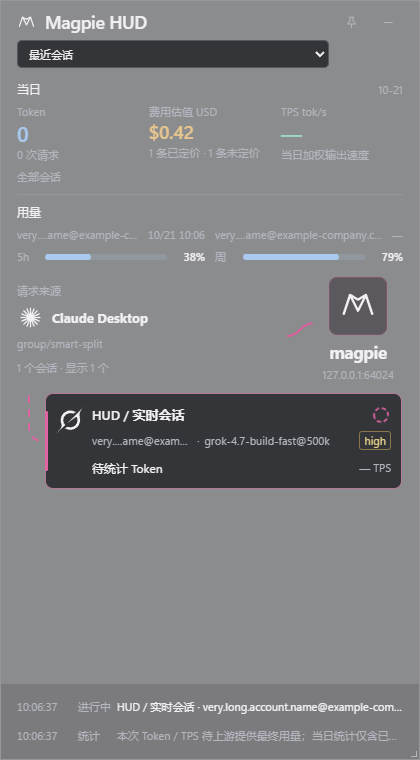
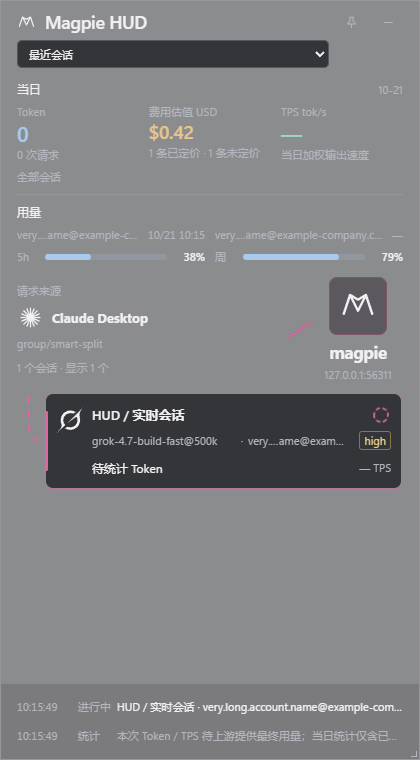
feat: 调整卡片模型顺序与额度刷新时机
会话卡片底部按模型、账号、强度排列，窄窗分别截断。
额度启动读取后每分钟刷新，完成请求后合并两秒内事件补刷缓存。
不为未匹配账号和正在选路的占位账号显示空额度进度条。

Changed region(s): [[0.2167, 0.575, 0.8048, 0.6053], [0.7738, 0.4842, 0.9286, 0.5145]]

diff --git a/ui/hud.css b/ui/hud.css
@@ -7,7 +7,7 @@
 .content{display:grid;grid-template-columns:186px minmax(0,1fr);min-height:0;padding:8px 20px 14px;gap:20px}.sidebar{min-width:0;min-height:0;display:flex;flex-direction:column;gap:14px;border-right:1px solid var(--edge);padding-right:16px;overflow-x:hidden;overflow-y:auto;scrollbar-width:none}.sidebar::-webkit-scrollbar,.quota-list::-webkit-scrollbar{display:none}.daily{min-width:0;flex-shrink:0}.daily-heading,.quota-heading{display:flex;align-items:baseline;justify-content:space-between;gap:6px;margin-bottom:7px}.daily-heading strong,.quota-heading h2{font-size:12px;font-weight:500;margin:0}.daily-heading time,.quota-heading>span{font-size:11px;color:var(--muted)}dl{margin:0;display:grid;gap:10px}.metric{min-width:0}.metric dt{color:var(--muted);font-size:11px}.metric dt span{font-size:11px}#cost-status{color:var(--warning)}.metric dd{margin:2px 0;font-size:24px;line-height:1.15;font-weight:600;letter-spacing:-.5px;font-variant-numeric:tabular-nums}.metric small{font-size:11px;color:var(--muted);display:block;line-height:1.4;overflow:hidden;text-overflow:ellipsis;white-space:nowrap}.metric:nth-child(2) dd{font-size:21px}#daily-tokens{color:var(--stat-tokens)}#daily-speed{color:var(--stat-speed)}#daily-cost{color:var(--stat-cost)}.stats-scope{display:block;color:var(--muted);font-size:11px;overflow:hidden;text-overflow:ellipsis;white-space:nowrap;padding-top:8px}.quota{border-top:1px solid var(--edge);padding-top:12px;min-width:0}.quota-list{display:flex;flex-direction:column;gap:12px;min-width:0}.quota-item{min-width:0;width:100%;display:grid;grid-template-columns:minmax(0,1fr);gap:6px}.quota-meta{display:grid;grid-template-columns:minmax(0,1fr) auto;align-items:baseline;min-width:0;gap:6px;font-size:11px;line-height:16px}.quota-account{color:var(--muted);min-width:0;overflow:hidden;text-overflow:ellipsis;white-space:nowrap}.quota-reset{flex-shrink:0;color:var(--muted);font-variant-numeric:tabular-nums;white-space:nowrap}.quota-window{display:grid;grid-template-columns:22px minmax(0,1fr)32px;align-items:center;gap:6px;min-height:16px;font-size:11px}.quota-period{color:var(--muted);white-space:nowrap;overflow:hidden;text-overflow:ellipsis}.quota-window strong{font-weight:500;text-align:right;white-space:nowrap;font-variant-numeric:tabular-nums}.quota-track{height:6px;min-width:0;border-radius:4px;background:rgb(169 201 239/.17);overflow:hidden}.quota-fill{display:block;height:100%;background:var(--stat-tokens);border-radius:0 4px 4px 0}.quota-window[data-low="true"] .quota-track{background:rgb(226 182 122/.17)}.quota-window[data-low="true"] .quota-fill{background:var(--warning)}.quota-track[data-unknown="true"]{background:transparent;border:1px dashed var(--muted)}.quota-item[data-stale="true"] .quota-track{opacity:.6}.quota-empty{font-size:11px;color:var(--muted);margin:0;line-height:1.5}#quota-freshness{color:var(--warning)}
 .routing{display:grid;grid-template-columns:288px minmax(0,1fr);min-width:0;min-height:0;align-items:stretch}.transit{display:grid;grid-template-columns:minmax(0,1fr)30px 94px;align-items:center;min-width:0;min-height:0}.source-node{min-width:0;max-height:100%;overflow:auto;scrollbar-width:thin}.node-caption{display:block;color:var(--muted);font-size:11px;margin-bottom:10px}.source-list{display:grid;gap:12px}.source-heading{display:flex;gap:8px;align-items:center;min-width:0}.source-icon{width:24px;height:24px;display:grid;place-items:center;flex-shrink:0}.source-icon img{width:22px;height:22px;object-fit:contain}.source-heading strong{white-space:nowrap;overflow:hidden;text-overflow:ellipsis;font-size:13px}.source-request{display:block;white-space:nowrap;overflow:hidden;text-overflow:ellipsis;color:var(--muted);font-size:11px;margin-top:5px}.source-node small{display:block;font-size:11px;color:var(--muted);margin-top:9px}.inbound{width:100%;height:74px}.route-track,.route-active,.branch{stroke-width:2;fill:none;stroke-linecap:round;vector-effect:non-scaling-stroke}.route-track{stroke:#67616d}.route-active,.branch{stroke:var(--route)}.router-node{display:flex;align-items:center;flex-direction:column;text-align:center;min-width:0;position:relative;z-index:1}.router-emblem{width:54px;height:54px;display:grid;place-items:center;border:1px solid #80556c;border-radius:8px;background:rgb(44 38 48/.5);margin-bottom:6px}.router-emblem svg{width:34px;height:34px}.router-node strong{font-size:18px;letter-spacing:-.4px}.router-node>span{font-size:11px;color:var(--muted);white-space:nowrap;margin-top:4px;max-width:100%;overflow:hidden;text-overflow:ellipsis}
 .hud[data-layout="wide"][data-sources="compact"] .routing{grid-template-columns:148px minmax(0,1fr)}.hud[data-layout="wide"][data-sources="compact"] .transit{grid-template-columns:minmax(0,1fr);grid-template-rows:auto 25px auto;align-content:center;justify-items:start;padding-right:8px}.hud[data-layout="wide"][data-sources="compact"] .inbound{width:38px;height:25px;margin-left:24px;transform:rotate(60deg)}.hud[data-layout="wide"][data-sources="compact"] .router-node{justify-self:center;width:100%}
-.route-area{height:100%;position:relative;min-height:0;min-width:0;display:flex;align-items:center}.route-lines{position:absolute;inset:0;width:100%;height:100%;pointer-events:none;overflow:hidden}.branch.failed{stroke:var(--failed);stroke-dasharray:4 5;opacity:.65}.branch.cancelled,.branch.unknown{stroke:#aaaeb8;stroke-dasharray:3 5}.branch.inactive{stroke:#977789;opacity:.65}.branch.running{stroke-dasharray:6 8;animation:route-stream 1s linear infinite}.branch.waiting{stroke:var(--warning);stroke-dasharray:3 5}.routes{display:flex;flex-direction:column;gap:9px;width:100%;max-height:100%;padding:1px 1px 1px 42px;overflow:auto;scrollbar-width:thin;scrollbar-color:#77707c transparent;position:relative}.route-card{flex-shrink:0;display:grid;grid-template-columns:32px minmax(0,1fr)96px;align-items:center;gap:10px;min-height:76px;width:100%;text-align:left;padding:10px 13px 10px 11px;border:1px solid #776270;border-radius:8px;background:var(--raised);position:relative;cursor:pointer}.route-card::before{content:"";width:3px;position:absolute;left:-1px;top:17px;bottom:17px;border-radius:2px;background:var(--route)}.route-card:hover{border-color:#bc87a3}.route-card.selected{border-color:var(--route)}.route-card.failed{border-style:dashed;border-color:#b0727a}.route-card.failed::before{background:var(--failed)}.route-card.cancelled,.route-card.unknown{border-color:#696c78}.route-card.cancelled::before,.route-card.unknown::before{background:#a8aab4}.route-card.running{border-color:#b77999}.route-card.waiting{border-color:#a58b60}.route-card.waiting::before{background:var(--warning)}.model-icon{width:30px;height:30px;display:grid;place-items:center;flex-shrink:0}.model-icon img{width:27px;height:27px;object-fit:contain}.model-icon .fallback{font-size:21px;color:var(--muted)}.card-copy{min-width:0}.card-top{display:flex;align-items:center;gap:8px;margin-bottom:6px;min-width:0}.session-title{font-size:13px;font-weight:600;flex:1;min-width:0;white-space:nowrap;overflow:hidden;text-overflow:ellipsis}.state-tag{font-size:11px;color:var(--muted);white-space:nowrap;display:flex;align-items:center;gap:4px}.state-symbol{color:var(--route);font-size:11px}.failed .state-symbol{color:var(--failed)}.cancelled .state-symbol{color:var(--warning)}.request-spinner{display:block;width:20px;height:20px;color:var(--route);animation:request-spin 1.4s linear infinite;flex-shrink:0}.request-spinner circle{fill:none;stroke:currentColor;stroke-width:1.8;stroke-dasharray:3 4;stroke-linecap:round}.card-bottom{font-size:11px;color:var(--muted);display:flex;align-items:center;gap:7px;white-space:nowrap;min-width:0}.card-account{max-width:115px;overflow:hidden;text-overflow:ellipsis}.card-model{overflow:hidden;text-overflow:ellipsis;min-width:0;flex:1}.effort{font-size:11px;border:1px solid var(--edge);border-radius:3px;padding:0 4px;line-height:17px;flex-shrink:0}.effort[data-level="low"]{color:#9ccfff;border-color:#56708d}.effort[data-level="medium"]{color:#8dd7b0;border-color:#497b61}.effort[data-level="high"]{color:#e6cf89;border-color:#8a7748}.effort[data-level="xhigh"]{color:#f2b17c;border-color:#93643e}.effort[data-level="max"]{color:#ef97ab;border-color:#925569}.effort[data-level="ultra"]{color:#e4acdf;border-color:#875b84}.divider{color:var(--muted)}.card-metrics{display:flex;flex-direction:column;gap:6px;text-align:right;font-size:12px;white-space:nowrap;font-variant-numeric:tabular-nums}.card-tps{font-size:11px;color:var(--muted)}.empty-route{display:flex;align-items:center;gap:13px;margin-left:42px;color:var(--muted);border:1px dashed #77707c;padding:17px;flex:1;border-radius:8px}.empty-square{font-size:20px}.empty-route strong{display:block;font-size:13px;font-weight:500}.empty-route small{display:block;font-size:11px;margin-top:7px}
+.route-area{height:100%;position:relative;min-height:0;min-width:0;display:flex;align-items:center}.route-lines{position:absolute;inset:0;width:100%;height:100%;pointer-events:none;overflow:hidden}.branch.failed{stroke:var(--failed);stroke-dasharray:4 5;opacity:.65}.branch.cancelled,.branch.unknown{stroke:#aaaeb8;stroke-dasharray:3 5}.branch.inactive{stroke:#977789;opacity:.65}.branch.running{stroke-dasharray:6 8;animation:route-stream 1s linear infinite}.branch.waiting{stroke:var(--warning);stroke-dasharray:3 5}.routes{display:flex;flex-direction:column;gap:9px;width:100%;max-height:100%;padding:1px 1px 1px 42px;overflow:auto;scrollbar-width:thin;scrollbar-color:#77707c transparent;position:relative}.route-card{flex-shrink:0;display:grid;grid-template-columns:32px minmax(0,1fr)96px;align-items:center;gap:10px;min-height:76px;width:100%;text-align:left;padding:10px 13px 10px 11px;border:1px solid #776270;border-radius:8px;background:var(--raised);position:relative;cursor:pointer}.route-card::before{content:"";width:3px;position:absolute;left:-1px;top:17px;bottom:17px;border-radius:2px;background:var(--route)}.route-card:hover{border-color:#bc87a3}.route-card.selected{border-color:var(--route)}.route-card.failed{border-style:dashed;border-color:#b0727a}.route-card.failed::before{background:var(--failed)}.route-card.cancelled,.route-card.unknown{border-color:#696c78}.route-card.cancelled::before,.route-card.unknown::before{background:#a8aab4}.route-card.running{border-color:#b77999}.route-card.waiting{border-color:#a58b60}.route-card.waiting::before{background:var(--warning)}.model-icon{width:30px;height:30px;display:grid;place-items:center;flex-shrink:0}.model-icon img{width:27px;height:27px;object-fit:contain}.model-icon .fallback{font-size:21px;color:var(--muted)}.card-copy{min-width:0}.card-top{display:flex;align-items:center;gap:8px;margin-bottom:6px;min-width:0}.session-title{font-size:13px;font-weight:600;flex:1;min-width:0;white-space:nowrap;overflow:hidden;text-overflow:ellipsis}.state-tag{font-size:11px;color:var(--muted);white-space:nowrap;display:flex;align-items:center;gap:4px}.state-symbol{color:var(--route);font-size:11px}.failed .state-symbol{color:var(--failed)}.cancelled .state-symbol{color:var(--warning)}.request-spinner{display:block;width:20px;height:20px;color:var(--route);animation:request-spin 1.4s linear infinite;flex-shrink:0}.request-spinner circle{fill:none;stroke:currentColor;stroke-width:1.8;stroke-dasharray:3 4;stroke-linecap:round}.card-bottom{font-size:11px;color:var(--muted);display:grid;grid-template-columns:minmax(0,1.35fr) auto minmax(0,1fr) auto;align-items:center;gap:7px;white-space:nowrap;min-width:0}.card-account{min-width:0;max-width:115px;overflow:hidden;text-overflow:ellipsis}.card-model{overflow:hidden;text-overflow:ellipsis;min-width:0;flex:1}.effort{font-size:11px;border:1px solid var(--edge);border-radius:3px;padding:0 4px;line-height:17px;flex-shrink:0}.effort[data-level="low"]{color:#9ccfff;border-color:#56708d}.effort[data-level="medium"]{color:#8dd7b0;border-color:#497b61}.effort[data-level="high"]{color:#e6cf89;border-color:#8a7748}.effort[data-level="xhigh"]{color:#f2b17c;border-color:#93643e}.effort[data-level="max"]{color:#ef97ab;border-color:#925569}.effort[data-level="ultra"]{color:#e4acdf;border-color:#875b84}.divider{color:var(--muted)}.card-metrics{display:flex;flex-direction:column;gap:6px;text-align:right;font-size:12px;white-space:nowrap;font-variant-numeric:tabular-nums}.card-tps{font-size:11px;color:var(--muted)}.empty-route{display:flex;align-items:center;gap:13px;margin-left:42px;color:var(--muted);border:1px dashed #77707c;padding:17px;flex:1;border-radius:8px}.empty-square{font-size:20px}.empty-route strong{display:block;font-size:13px;font-weight:500}.empty-route small{display:block;font-size:11px;margin-top:7px}
 .route-notes{display:grid;grid-template-rows:29px 29px;border-top:1px solid var(--edge);padding:8px 20px;background:rgb(0 0 0/.12);min-width:0}.note-row{display:grid;grid-template-columns:61px 33px minmax(0,1fr);gap:10px;align-items:center;min-width:0}.note-row time{font-size:11px;font-variant-numeric:tabular-nums;color:var(--muted)}.note-kind{font-size:11px;color:var(--muted)}.note-row p{margin:0;font-size:12px;line-height:20px;overflow:hidden;text-overflow:ellipsis;white-space:nowrap}.note-row:last-child p{color:var(--muted)}
 @keyframes route-stream{to{stroke-dashoffset:-28}}@keyframes request-spin{to{transform:rotate(360deg)}}
 .resize-edge,.resize-corner{position:fixed;z-index:20}.resize-edge.north,.resize-edge.south{left:12px;right:12px;height:6px;cursor:ns-resize}.resize-edge.north{top:0}.resize-edge.south{bottom:0}.resize-edge.east,.resize-edge.west{top:12px;bottom:12px;width:6px;cursor:ew-resize}.resize-edge.east{right:0}.resize-edge.west{left:0}.resize-corner{width:12px;height:12px}.north-west{top:0;left:0;cursor:nwse-resize}.north-east{top:0;right:0;cursor:nesw-resize}.south-west{bottom:0;left:0;cursor:nesw-resize}.south-east{bottom:0;right:0;cursor:nwse-resize}.south-east::after{content:"";position:absolute;right:3px;bottom:3px;width:5px;height:5px;border-right:1px solid var(--muted);border-bottom:1px solid var(--muted)}

diff --git a/ui/hud.js b/ui/hud.js
@@ -136,7 +136,7 @@
     effort.textContent = card.effort;
     const intensity = card.effort.toLowerCase();
     if (['low', 'medium', 'high', 'xhigh', 'max', 'ultra'].includes(intensity)) effort.dataset.level = intensity;
-    bottom.append(label, separator, model, effort);
+    bottom.append(model, separator, label, effort);
     copy.append(top, bottom);
     const metrics = document.createElement('span');
     metrics.className = 'card-metrics';
@@ -239,6 +239,7 @@
         quota.provider.toLowerCase() === card.provider.toLowerCase() &&
         (quota.user ? quota.user === card.account : quota.kind === 'balance' && quota.name === card.account));
       const quota = candidates.length === 1 ? candidates[0] : null;
+      if (!quota) continue;
       const read = quota?.readAt || quota?.asOf;
       if (read && !Number.isNaN(Date.parse(read))) readings.push(new Date(read));
       const windows = quota?.windows.length ? quota.windows : [null];
@@ -293,10 +294,10 @@
         list.append(item);
       }
     }
-    if (!accounts.size) {
+    if (!list.children.length) {
       const empty = document.createElement('p');
       empty.className = 'quota-empty';
-      empty.textContent = '等待当前会话的额度';
+      empty.textContent = '暂无额度';
       list.append(empty);
     }
     const quotaFailed = snapshot.quotaError || list.querySelector('[data-stale="true"]');

diff --git a/scripts/verify_live_window.py b/scripts/verify_live_window.py
@@ -35,7 +35,10 @@ class Gateway(BaseHTTPRequestHandler):
             elif self.path == '/v1/magpie/concurrency':
                 data = {'active': self.state['active']}
             elif self.path == '/v1/magpie/quotas?kept=1':
-                data = {'object': 'list', 'data': [{'provider': 'grok', 'name': 'grok', 'user': 'very.long.account.name@example-company.com', 'kind': 'subscription', 'readAt': self.state['started'], 'windows': [{'name': '5 hours', 'remaining': 62, 'used': 38, 'resetsAt': self.state['started']}, {'name': '7 days', 'remaining': 21, 'used': 79}]}]}
+                self.state['quota_reads'] += 1
+                self.state['quota_times'].append(time.monotonic())
+                used = self.state['quota_used']
+                data = {'object': 'list', 'data': [{'provider': 'grok', 'name': 'grok', 'user': 'very.long.account.name@example-company.com', 'kind': 'subscription', 'readAt': self.state['started'], 'windows': [{'name': '5 hours', 'remaining': 100 - used, 'used': used, 'resetsAt': self.state['started']}, {'name': '7 days', 'remaining': 21, 'used': 79}]}]}
             elif self.path == '/v1/magpie/usage?period=today':
                 data = {'since': self.state['started'], 'calls': 2, 'cost': 0.42, 'unpriced': 1, 'sessions': [{'id': 'session-alpha', 'calls': 1, 'cost': .12, 'unpriced': 0}]}
             else:
@@ -121,7 +124,7 @@ def main():
     route = {'id': 100, 'session': 'session-alpha', 'provider': 'grok', 'done': False,
              'order': [{'id': 'grok', 'who': 'very.long.account.name@example-company.com'}],
              'tries': [{'id': 'grok', 'model': 'grok-4.7-build-fast@500k', 'effort': 'high', 'done': False}]}
-    Gateway.state = {'seq': 1, 'pid': 1000, 'ids': [100], 'routes': [route], 'active': [active], 'started': started}
+    Gateway.state = {'seq': 1, 'pid': 1000, 'ids': [100], 'routes': [route], 'active': [active], 'started': started, 'quota_reads': 0, 'quota_used': 38, 'quota_times': []}
     server = ThreadingHTTPServer(('127.0.0.1', 0), Gateway)
     thread = threading.Thread(target=server.serve_forever, daemon=True)
     thread.start()
@@ -156,6 +159,7 @@ def main():
         assert client.evaluate("document.querySelector('.quota-window strong').textContent") == '38%'
         assert client.evaluate("Math.abs(document.querySelector('.quota-fill').getBoundingClientRect().width / document.querySelector('.quota-track').getBoundingClientRect().width - .38) < .02")
         assert client.evaluate("document.querySelector('.route-card.running .state-tag').textContent") == ''
+        assert client.evaluate("[...document.querySelector('.card-bottom').children].map(element=>element.className)") == ['card-model', 'divider', 'card-account', 'effort']
         assert client.evaluate("document.querySelector('.request-spinner circle').getAttribute('r')") == '7'
         client.wait("getComputedStyle(document.querySelector('.request-spinner')).animationName === 'request-spin'")
         rotation = client.evaluate("getComputedStyle(document.querySelector('.request-spinner')).transform")
@@ -208,12 +212,22 @@ def main():
         (title_dir / 'local_demo.json').write_text(json.dumps({'sessionId': 'local_demo', 'cliSessionId': 'session-alpha', 'title': 'HUD / 名称更新'}), encoding='utf-8')
         client.wait("document.querySelector('.session-title').textContent === 'HUD / 名称更新'")
         with Gateway.lock:
+            assert Gateway.state['quota_reads'] == 1, 'active updates must not repoll quotas'
+            Gateway.state['quota_used'] = 41
+        client.wait("document.querySelector('.quota-track')?.getAttribute('aria-valuenow') === '41'", timeout=65)
+        with Gateway.lock:
+            assert Gateway.state['quota_reads'] == 2
+            assert Gateway.state['quota_times'][1] - Gateway.state['quota_times'][0] >= 55, 'quota periodic refresh must be one minute'
+            Gateway.state['quota_used'] = 45
             route['done'] = True
             route['tries'][0]['done'] = True
             Gateway.state['seq'] = 2
             Gateway.state['active'] = []
         append(path, record(1, 'very.long.account.name@example-company.com', model='grok-4.7-build-fast@500k', provider='grok', route_id=100))
         client.wait("!document.querySelector('.route-card.running') && document.querySelector('.card-tokens')?.textContent==='1.0k Token'")
+        client.wait("document.querySelector('.quota-track')?.getAttribute('aria-valuenow') === '45'", timeout=8)
+        with Gateway.lock:
+            assert Gateway.state['quota_reads'] == 3, 'completion must refresh quota cache once'
         assert client.evaluate("document.querySelector('.card-tps').textContent") == '50.0 TPS'
         assert client.evaluate("document.querySelectorAll('.request-spinner').length") == 0
         assert client.evaluate("document.querySelectorAll('.note-row').length") == 2
@@ -252,7 +266,7 @@ def main():
             time.sleep(.1)
         assert client, 'restarted WebView2 not ready'
         client.wait("innerWidth===420 && innerHeight===760 && document.getElementById('hud')?.dataset.layout==='tall'")
-        print(json.dumps({'passed': True, 'checks': ['sidebar-no-scrollbars-long-account', 'short-window-stats-and-one-line-log', 'two-line-usage-bars', 'dashed-spinner-rotation', 'statistic-colors', 'native-acrylic', 'quota-windows', 'global-and-session-cost', 'title-and-half-opacity', 'source-stacking-and-icons', 'effort-color', 'active-before-completion', 'real-title-and-rename', 'animation-moves', 'reduced-motion', 'token-and-tps', 'native-wide-tall-resize', 'minimum-width-360', 'disconnect-stops-activity', 'restart-restores-size'], 'screenshots': [wide, tall, short]}, ensure_ascii=False))
+        print(json.dumps({'passed': True, 'checks': ['model-before-account', 'minute-and-completion-quota-refresh', 'sidebar-no-scrollbars-long-account', 'short-window-stats-and-one-line-log', 'two-line-usage-bars', 'dashed-spinner-rotation', 'statistic-colors', 'native-acrylic', 'quota-windows', 'global-and-session-cost', 'title-and-half-opacity', 'source-stacking-and-icons', 'effort-color', 'active-before-completion', 'real-title-and-rename', 'animation-moves', 'reduced-motion', 'token-and-tps', 'native-wide-tall-resize', 'minimum-width-360', 'disconnect-stops-activity', 'restart-restores-size'], 'screenshots': [wide, tall, short]}, ensure_ascii=False))
     finally:
         if client:
             try:

diff --git a/src-tauri/src/lib.rs b/src-tauri/src/lib.rs
@@ -30,6 +30,7 @@ struct Runtime {
     cursor: LogCursor,
     live: live::LiveState,
     telemetry: telemetry::Telemetry,
+    quota_refresh: Option<std::sync::mpsc::SyncSender<()>>,
     snapshot: RouteSnapshot,
 }
 
@@ -49,6 +50,7 @@ impl Runtime {
             cursor: LogCursor::default(),
             live: live::LiveState::default(),
             telemetry: telemetry::Telemetry::default(),
+            quota_refresh: None,
             snapshot,
         };
         runtime.refresh(None);
@@ -68,6 +70,12 @@ impl Runtime {
             },
             self.config_error.clone().or(read_error).or(watcher_error),
         );
+        // 只有新完成记录才触发额度补刷；启动历史、活跃态和普通重绘不触发。
+        if snapshot.date == self.snapshot.date && snapshot.daily.requests > self.snapshot.daily.requests {
+            if let Some(sender) = &self.quota_refresh {
+                let _ = sender.try_send(());
+            }
+        }
         if snapshot.sessions.is_empty() {
             snapshot.notes[1].text = path.display().to_string();
         }
@@ -247,6 +255,8 @@ fn start_live(app: AppHandle) {
             return;
         }
     };
+    let (quota_sender, quota_receiver) = std::sync::mpsc::sync_channel(1);
+    shared.lock().expect("状态锁损坏").quota_refresh = Some(quota_sender);
     let trace_app = app.clone();
     let trace_shared = Arc::clone(&shared);
     let trace_base = base.clone();
@@ -285,7 +295,15 @@ fn start_live(app: AppHandle) {
                     let _ = quota_app.emit("route-update", snapshot);
                 }
             }
-            std::thread::sleep(Duration::from_secs(30).saturating_sub(started.elapsed()));
+            // 启动立即读取，之后每分钟刷新；完成事件合并两秒后补读缓存。
+            match quota_receiver.recv_timeout(Duration::from_secs(60).saturating_sub(started.elapsed())) {
+                Ok(()) => {
+                    std::thread::sleep(Duration::from_secs(2));
+                    while quota_receiver.try_recv().is_ok() {}
+                }
+                Err(std::sync::mpsc::RecvTimeoutError::Timeout) => {}
+                Err(std::sync::mpsc::RecvTimeoutError::Disconnected) => return,
+            }
         }
     });
     let usage_app = app.clone();

diff --git a/docs/feat/Feat_261021_3_额度侧栏与磨砂布局.md b/docs/feat/Feat_261021_3_额度侧栏与磨砂布局.md
@@ -14,9 +14,11 @@
 
 强度使用浅蓝、绿、黄、橙、粉红、淡紫红，保留完整文字，未知强度保持中性。用户明确要求磨砂与六档颜色，优先于设计技能中禁止 glass、多色的默认建议。参考 Data terminal（seed 1919189929），保留本项目路由图与既有布局，不套用导航/部署页模板。
 
-额度只读 `/v1/magpie/quotas?kept=1`，每 30 秒读取 Magpie 已缓存的供应商读数，不额外触发供应商查询。按 provider + 完整账号唯一匹配，重复或缺失身份不猜测。同一账号的多个模型合并关联，每个额度窗口显示两行：账号与重置时刻；窗口简称（5h/周）、已用进度条与百分比。模型、共享范围、读数时间和错误详情保留在悬停提示，不占正文；旧读数保留简短标记。无比例时用空虚线轨道与破折号，不能伪造 0%；余额仅在提示显示。切换会话同步额度范围。
+额度只读 `/v1/magpie/quotas?kept=1`，启动立即读取 Magpie 已缓存的供应商读数，之后每分钟刷新；完成日志新增外部请求时通知额度线程，合并 2 秒内的完成事件后补刷一次，不额外触发供应商查询。保留上次读数，未找到唯一匹配额度的账号不生成空进度条（包括“正在选择账号”），全部无匹配时仅显示“暂无额度”。按 provider + 完整账号唯一匹配，重复或缺失身份不猜测。同一账号的多个模型合并关联，每个额度窗口显示两行：账号与重置时刻；窗口简称（5h/周）、已用进度条与百分比。模型、共享范围、读数时间和错误详情保留在悬停提示，不占正文；旧读数保留简短标记。无比例时用空虚线轨道与破折号，不能伪造 0%；余额仅在提示显示。切换会话同步额度范围。
 
 2026-10-21 视觉微调：统计 Token / TPS / 费用分别用浅蓝 / 青绿 / 暖金，深色表面对比度均大于 10:1。进行中卡片以旋转虚线圆代替“请求中”文字，保留可访问名称和提示；动画以时间同步相位，刷新不反复归零，减少动态时停转，完成后移除。
+
+2026-10-21 卡片信息顺序：右侧卡片次行按“模型 · 账号 · 强度”排列，模型列略宽，模型与账号分别省略；未匹配到额度的账号与正在选路的占位信息不再显示空额度轨道。
 
 2026-10-21 矮窗适配：高度不超过 420px 时，底部日志仅显示最新一条，整栏 28px；统计隐藏标题、日期、指标名称及辅助说明，按 Token | TPS | 费用同一行显示，保留浅蓝/青绿/暖金和键盘/悬停提示。Token 按整单位缩写（如 198M），百元以上费用取整数（如 $254），精确费用保留在提示中；错误旧读数保留简短“旧”标记。拉高后恢复详细统计与两行日志。
 
@@ -44,6 +46,7 @@
 - 2026-10-21 两行用量微调：浏览器核对每个窗口仅两个子行，38% / 79% 对应真实填充比例，360px 宽无横向溢出；统计三色对深底对比度分别 10.29 / 10.70 / 10.67。旋转虚线圆仅用于 running，保留请求中可访问名，未知额度无填充，0% 无占位短条。调试构建、17 项 Rust 测试、实际 WebView2 的两行比例/旋转/减少动态/完成移除验收通过，真实 Magpie 数据的新版 HUD 已重启。
 - 2026-10-21 矮窗增量：692×364 下三项统计同一基线、完整位于左栏且没有水平滚动，日志实测 28px / 一行；高度 421px 恢复 76px / 两行，360×280 同样使用紧凑模式。样例 `198M | 49.1 | $254`，精确金额保留在提示。17 项 Rust 测试、调试构建和原生 WebView2 紧凑/恢复检查通过；完成记录回归实测 118.2ms，真实配置新版已启动。
 - 2026-10-21 长账号溢出修正：原 692×364 窗口左栏宽 163px，被长账号撑至 scrollWidth=241px；设置 minmax(0,1fr) 后 scrollWidth=clientWidth=163px，账号省略、重置时间保留。左栏与额度列表 scrollbar-width=none；360px 宽的 8 窗口额度列表仍可滚动，无横向溢出。17 项 Rust 测试、调试构建和真实 WebView2 长账号验收通过。
+- 2026-10-21 模型优先与额度刷新：卡片 DOM 与实际位置均为模型在前、账号在后，360px 窄窗不溢出；未匹配账号与“正在选择账号”不绘制空额度，保留其他账号有效读数。额度启动读取后每分钟刷新，新完成日志通过容量为一的通知通道触发 2 秒合并补刷，活跃状态不触发；费用仍独立按 5 秒更新。17 项 Rust 测试与调试构建通过，实际 WebView2 验证首次读取后完整一分钟才周期补刷（没有完成请求时），完成日志新增后 2 秒合并补刷一次，进度从 38% → 41% → 45%；启动真实配置后已核对费用、额度和图标。
 - 设计 lint 为 0 FAIL；glass 为用户明确要求，破折号表示未知数字。自动 inspector 的透明窗口对比度检查把透明根背景按白色计算，不适用于桌面合成；单独允许该规则，保留截图核对；字号 11–12px 为悬浮窗密集信息选择。窄屏边距按检查调整至 16px。
 - 最终 inspector 在 1440×900、768×1024、390×844 为 0 FAIL / 1 WARN（密集信息字号），已核对三种空状态截图。脱敏有数据预览与原生截图单独检查：左右边界对齐、来源与 Magpie 的上下/并排关系成立、字号最小 11px，主信息是会话名与本次用量，额度零和未知值区分清楚。未发现未解决的截断或覆盖；长列表按区域滚动。
 

diff --git a/README.md b/README.md
@@ -39,11 +39,11 @@ cargo test --manifest-path src-tauri/Cargo.toml --lib
 ## 会话、状态与当日统计
 
 - 右上“最近会话”显示全部进行中会话，再用最近完成会话补足三个；超过三个活跃会话时全部显示。旧完成会话被挤出默认视图后仍可从下拉列表选择，不按秒超时删除。仅实时存在而尚无完成日志的会话，结束/断线到日志落盘之间可能短暂消失；本地跨日或日志轮转重建会移除旧记录。选具体会话后同步路由、用量、底部说明及当日统计。会话名称读取 Desktop 本地元数据与 Codex `session_index.jsonl`，按完整 ID 映射；缺名称显示“未命名会话”，缺 ID 为“未标记会话”，完整 ID 仅保留在提示与分组身份中。
-- 路由块主行显示会话名和状态，次行显示账号、模型与强度，旁边是本次 Token/TPS。强度 low、medium、high、xhigh、max、ultra 分别为浅蓝、绿、黄、橙、粉红、淡紫红，未知值保持中性。请求进行中显示旋转虚线圆及流动连线，完成即停止；减少动态效果时保持静态状态。统计 Token、TPS 与费用分别以浅蓝、青绿和暖金区分。
+- 路由块主行显示会话名和状态，次行显示模型、账号与强度，旁边是本次 Token/TPS。强度 low、medium、high、xhigh、max、ultra 分别为浅蓝、绿、黄、橙、粉红、淡紫红，未知值保持中性。请求进行中显示旋转虚线圆及流动连线，完成即停止；减少动态效果时保持静态状态。统计 Token、TPS 与费用分别以浅蓝、青绿和暖金区分。
 - 失败使用真实 HTTP 状态及错误；499 为调用方取消，不算账号冷却。后续成功或 `tries>1` 时显示“已恢复”或“重试成功”。`usage.jsonl` 不含路由页的逐次失败账号、实时冷却和精确恢复时间，不能复刻“31 秒后恢复”倒计时。
 - **Token**：按系统本地日期汇总 `in + out + cache_read`。日志中的 `t` 是请求开始时间；当天归属按该时间转本地日期，最新完成和恢复顺序按文件追加顺序，避免并发请求倒序。
 - **费用估值**：只读 Magpie `/v1/magpie/usage?period=today` 的 USD 估值和未定价条数，选中会话时按 `sessions[].id` 显示该会话费用，每 5 秒刷新。订阅账号金额为等价用量估值，并非实际账单；费用沿用 Magpie 用量页口径（含内部 routing），而 HUD 的 Token/请求数排除 routing。无价格不伪造 $0.00，日志 Credits、账号余额各保留自身单位。
-- **用量**：左栏第二部分读取 `/v1/magpie/quotas?kept=1` 的最近缓存额度，每 30 秒更新。按供应商 + 完整账号唯一关联当前显示会话的模型；5h、周等窗口没有模型限定时属于账号共享额度。显示为两行：账号与重置时刻；窗口简称、已用进度条与百分比。账号放不下时自动省略，悬停可看完整账号；左栏不显示滚动条，超长列表仍可用滚轮查看。详细模型、读数时间和错误放在悬停提示，失联保留旧读数并标记。
+- **用量**：左栏第二部分读取 `/v1/magpie/quotas?kept=1` 的最近缓存额度，启动立即读取，之后每分钟更新；新请求完成后合并 2 秒内的完成事件补刷一次。保留上次读数，不为未匹配账号或“正在选择账号”绘制空进度条。按供应商 + 完整账号唯一关联当前显示会话的模型；5h、周等窗口没有模型限定时属于账号共享额度。显示为两行：账号与重置时刻；窗口简称、已用进度条与百分比。账号放不下时自动省略，悬停可看完整账号；左栏不显示滚动条，超长列表仍可用滚轮查看。详细模型、读数时间和错误放在悬停提示，失联保留旧读数并标记。
 - **TPS**：当日加权输出速度 `Σout / Σ(ms − ttft_ms) × 1000`，仅纳入成功且生成耗时有效的记录；每块会话另显示本次请求对应的 Token/TPS。Magpie 活跃接口尚无执行中的精确输出计数，进行中显示“待统计 Token / — TPS”，完成日志到达后显示最终值；`upstream` 包含等待首字与正在流式返回，不伪造逐 Token 进度。
 - 模型图标来自 [LobeHub Icons](https://github.com/lobehub/lobe-icons) 的 `@lobehub/icons-static-svg` 1.95.1，已本地打包并保留 [MIT 许可](ui/icons/LICENSE)，应用运行时不联网加载图标。
 
